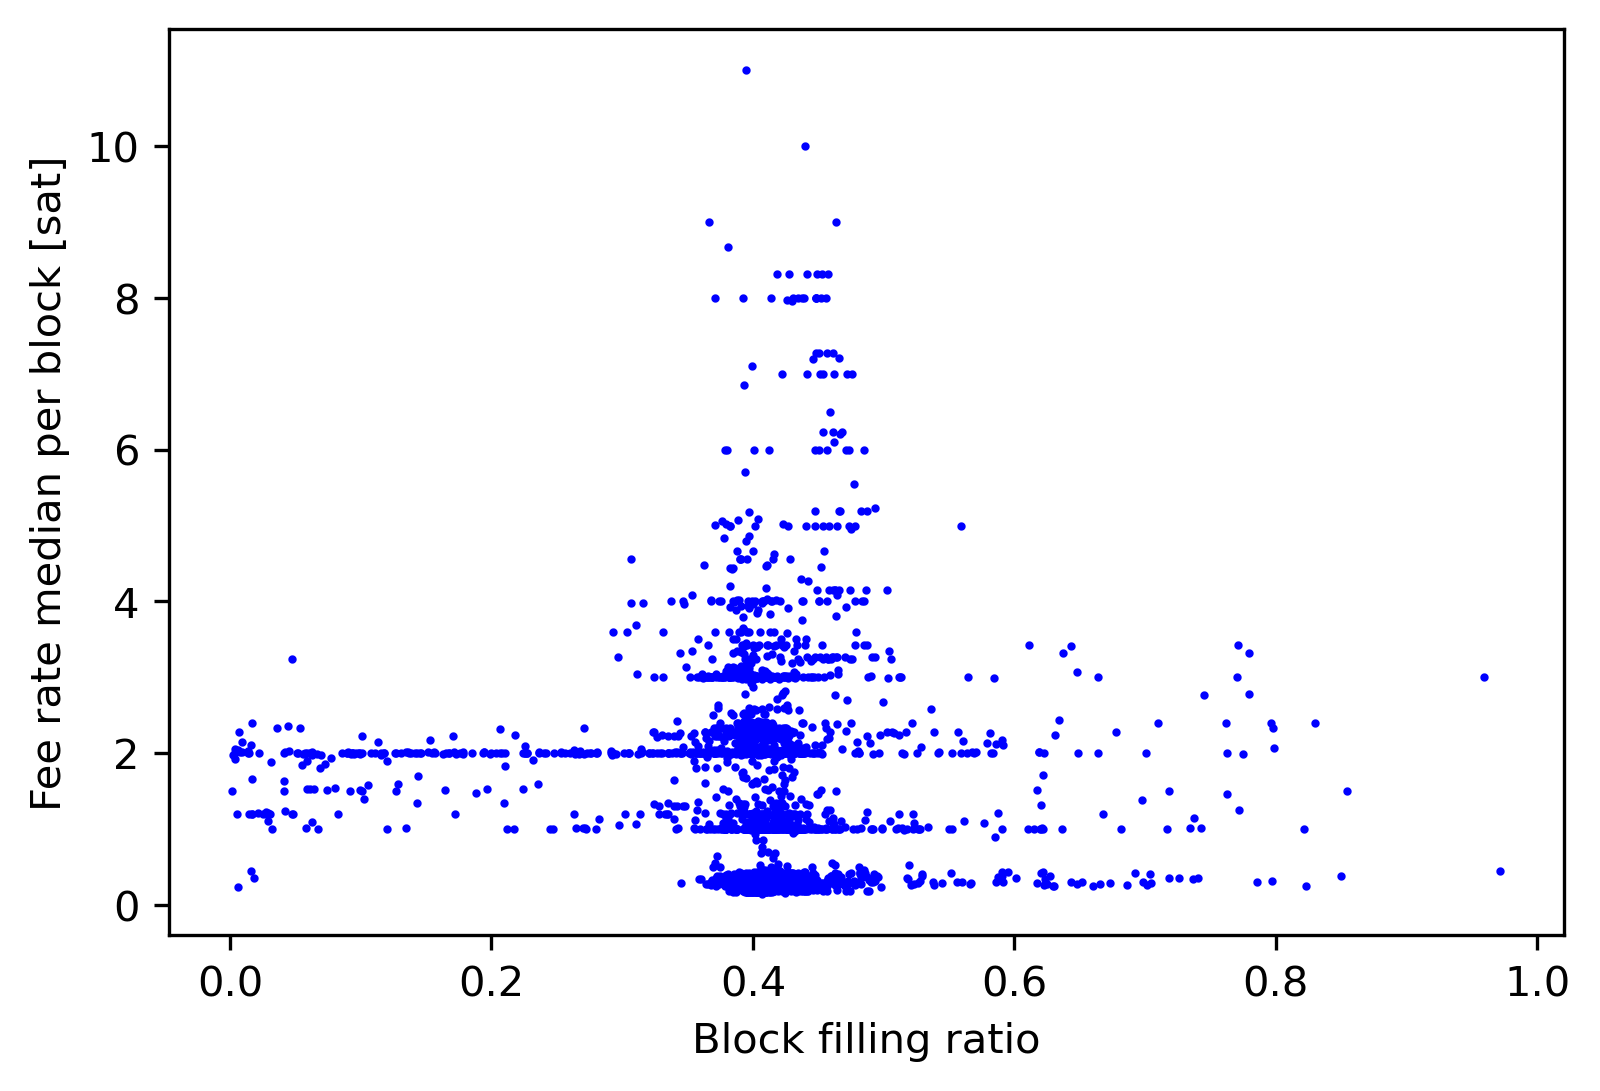
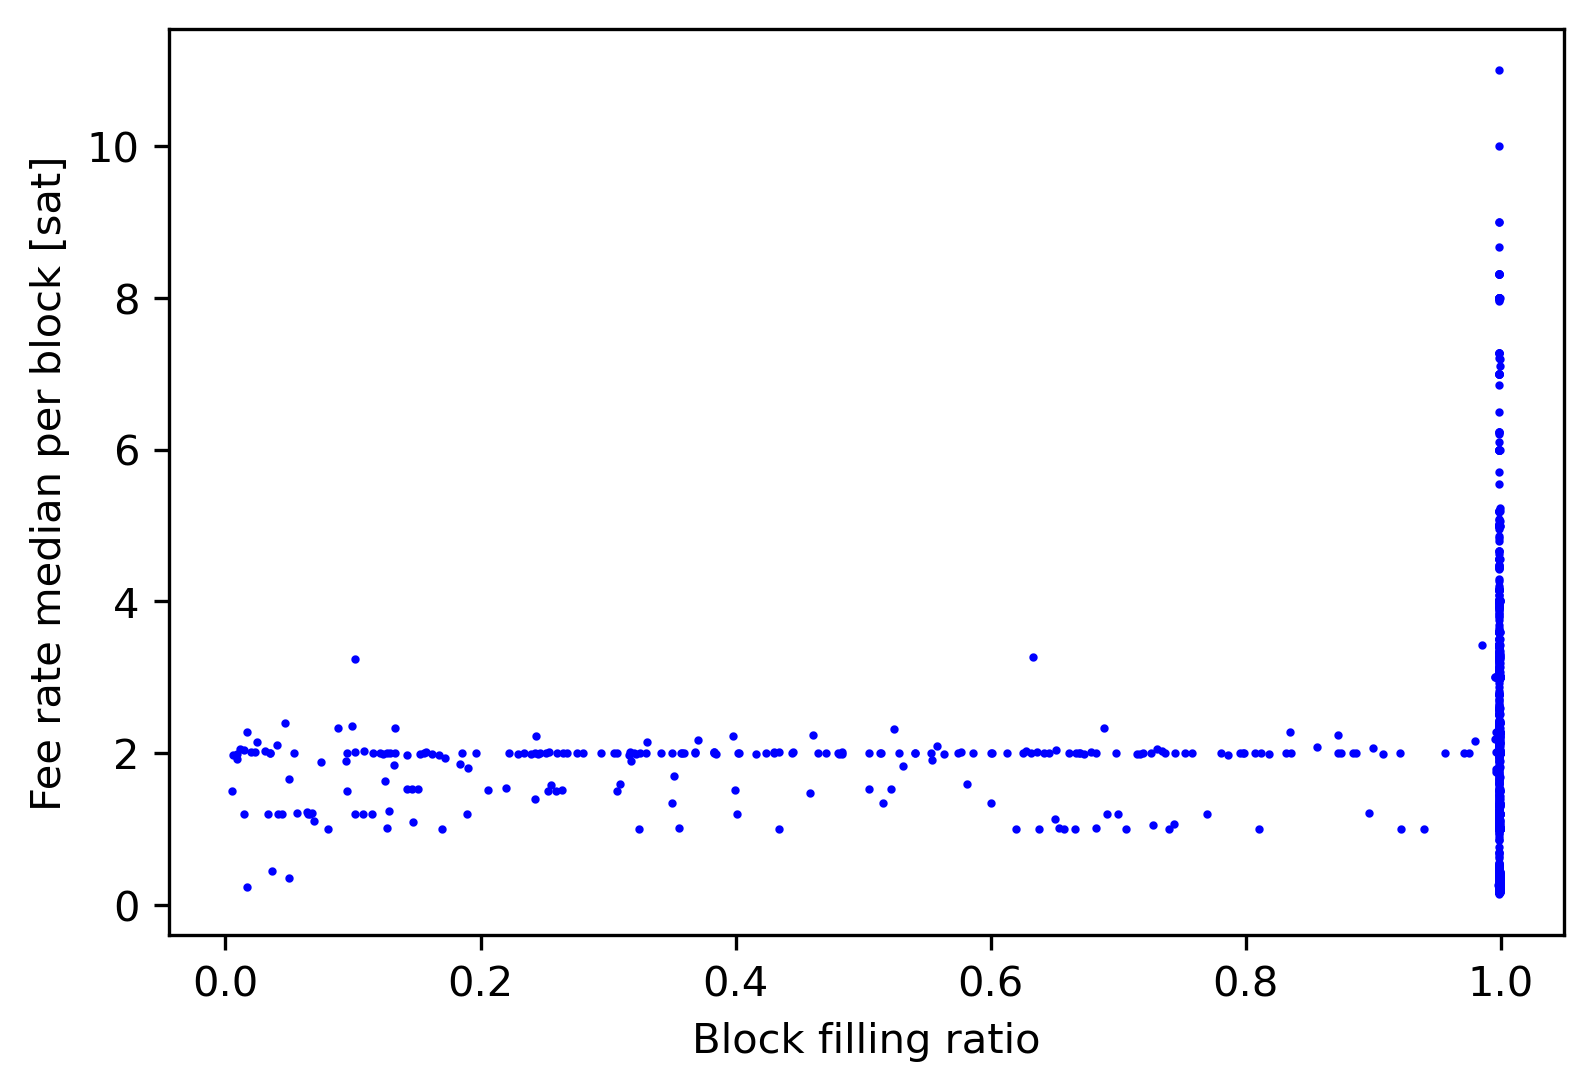
Analysis update

diff --git a/analysis.py b/analysis.py
@@ -94,8 +94,8 @@ vsize_mb_sum = df_transactions.groupby("height")["vsize_mb"].sum()
 vsize_mb_mean = df_transactions.groupby("height")["vsize"].mean()
 vsize_mb_median = df_transactions.groupby("height")["vsize"].median()
 
-
-df["saturation"] = df["size_mb"]/4.
+df["saturation"] = df["weight"]/4e6
+#df["saturation"] = df["size_mb"]/4.
 
 df["tx_density"] = df["nTx"]/df["size_mb"]
 df_transactions["fee"] = (df_transactions["fee"].astype(float)*100000000.) #btc to sat
@@ -106,10 +106,25 @@ df["dt_rolling"] = df["dt_sec"].rolling(100, min_periods=20).mean()
 df["epoch"] = df["height"] // 2016
 df_transactions["fee_rate"] = df_transactions["fee"]/df_transactions["vsize"]
 
+vsize_sum = df_transactions.groupby("height")["vsize"].sum()
+
+df = df.merge(
+    vsize_sum.rename("vsize_sum"),
+    on="height",
+    how="left"
+)
+
+
 fee_sum_block = df_transactions.groupby("height")["fee"].sum()
 fee_mean_block = df_transactions.groupby("height")["fee"].mean()
 fee_rate_mean_block = df_transactions.groupby("height")["fee_rate"].mean()
 fee_rate_median_block = df_transactions.groupby("height")["fee_rate"].median()
+
+df = df.merge(
+    fee_rate_median_block.rename("fee_rate_median_block"),
+    on="height",
+    how="left"
+)
 
 #val_mean_block = df_transactions.groupby("height")["value"].mean()
 #val_median_block = df_transactions.groupby("height")["value"].median()
@@ -258,10 +273,11 @@ create_plot(low["height"], low["tx_count"], "Block height", "Transaction count",
 
 # =============================================================================
 
-corr = df[["dt_sec", "nTx", "size_mb", "saturation"]].corr()
+
+corr = df[["dt_sec", "nTx", "vsize_sum", "saturation", "fee_rate_median_block"]].corr()
 print(corr)
 
-cols = ["dt_sec", "nTx", "size_mb", "saturation", "tx_density", "price"]
+cols = ["dt_sec", "nTx", "vsize_sum", "saturation", "price", "fee_rate_median_block"]
 
 corr = df[cols].corr()
 
@@ -271,6 +287,7 @@ sns.heatmap(corr, annot=True, cmap="coolwarm", vmin=-1, vmax=1)
 plt.title("Correlation heatmap")
 plt.tight_layout()
 plt.show()
+
 
 
 